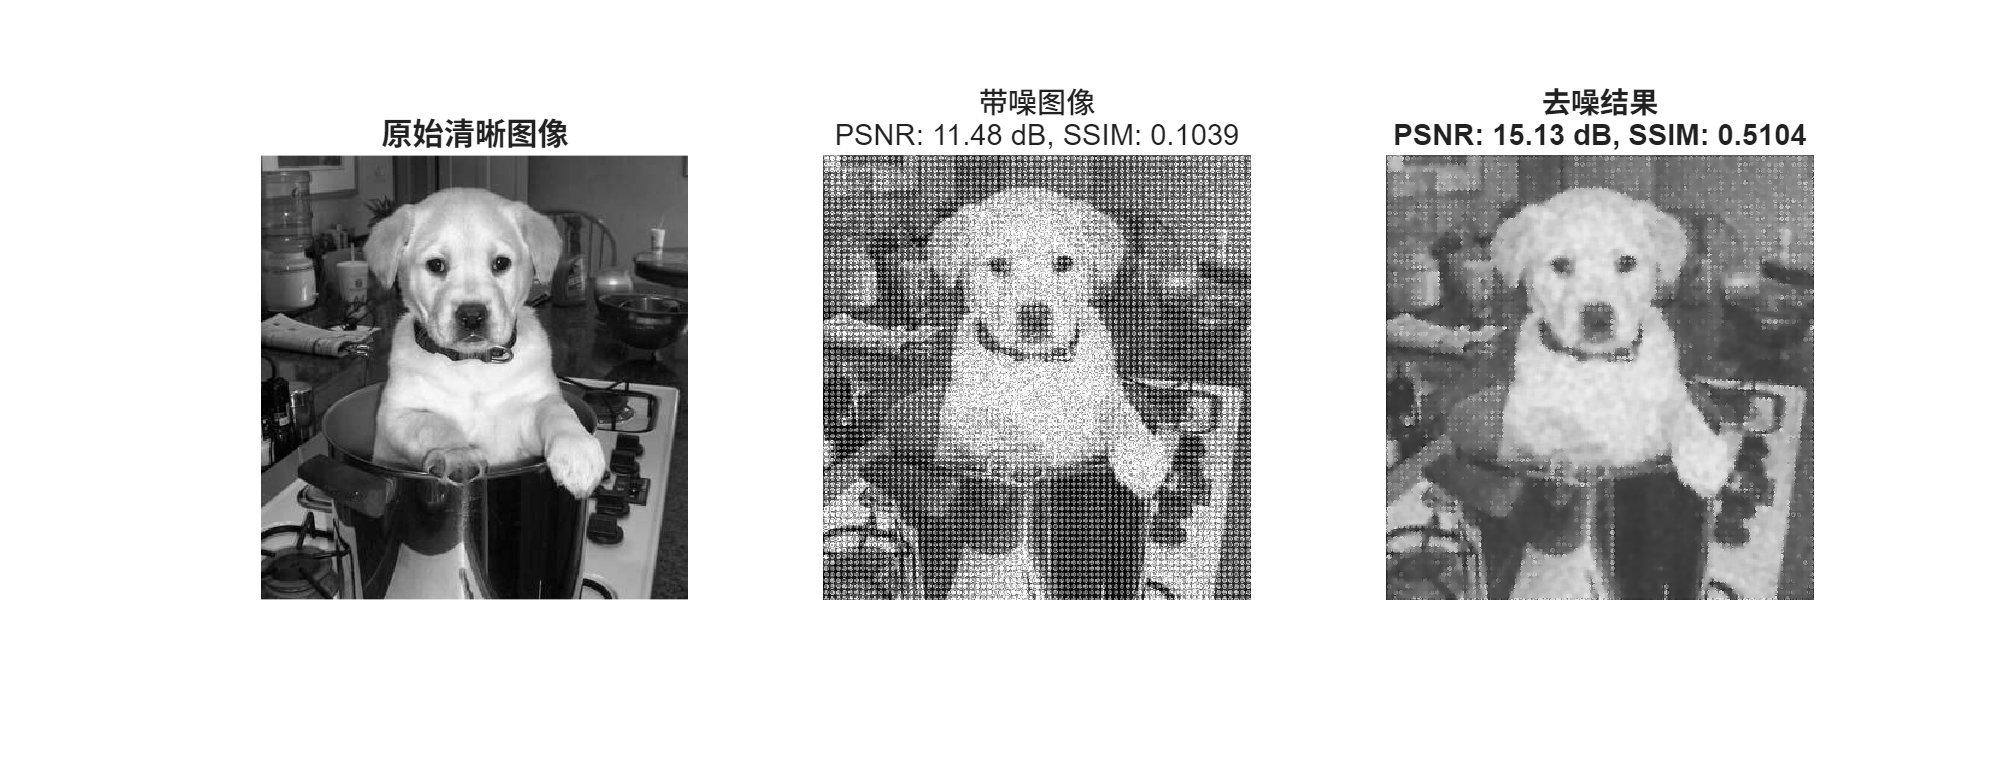
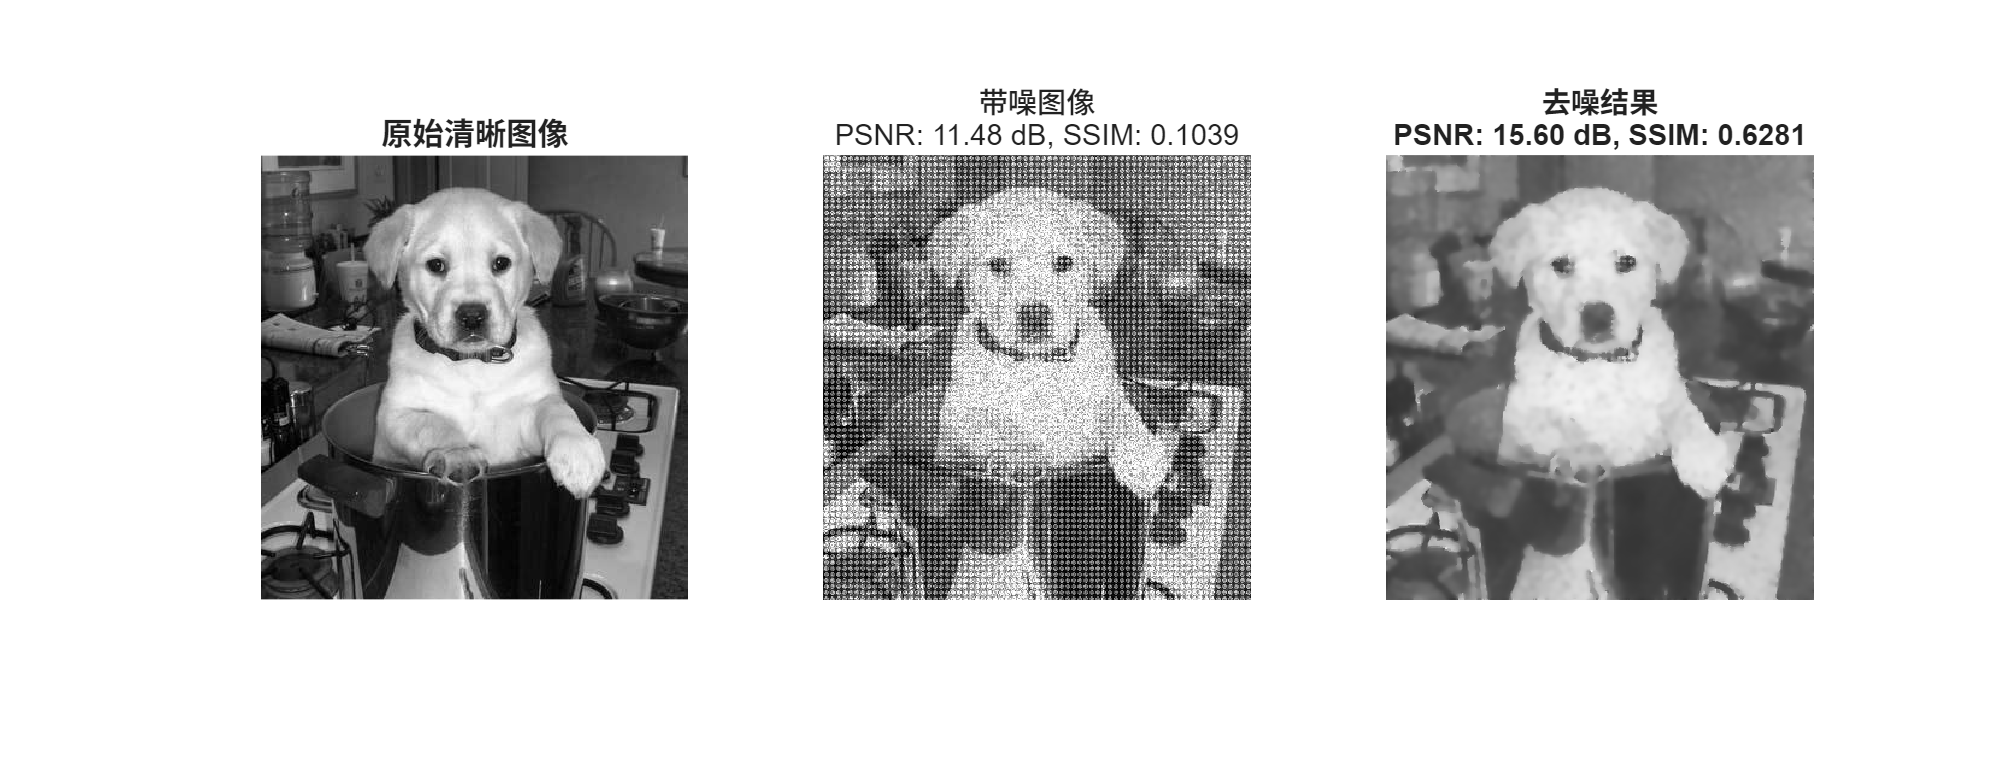
试图减轻背景白点，但是平滑过度

diff --git a/code1.m b/code1.m
@@ -1,6 +1,6 @@
 % =========================================================================
 % 课程设计3 - 任务1：图像增强算法设计（最终版本）
-% 策略：频域陷波 + 非局部均值 + 维纳滤波 + 温和锐化
+% 策略：频域陷波 + 中值滤波 + 非局部均值 + 维纳滤波 + 温和锐化
 % 目标：在保持高SSIM的同时，视觉效果明显改善
 % =========================================================================
 
@@ -37,57 +37,64 @@ F_noisy = fft2(noisyImg);
 F_shifted = fftshift(F_noisy);
 spectrum = abs(F_shifted);
 
-% 频率坐标
-u = 0:(M-1);
-v = 0:(N-1);
-idx = find(u > M/2);
-u(idx) = u(idx) - M;
-idy = find(v > N/2);
-v(idy) = v(idy) - N;
-[V, U] = meshgrid(v, u);
+% fftshift 后频谱低频在中心，因此频率坐标也必须以中心点为零点
+center_u = floor(M/2) + 1;
+center_v = floor(N/2) + 1;
+[V, U] = meshgrid((1:N) - center_v, (1:M) - center_u);
 D = sqrt(U.^2 + V.^2);
 
-% 检测周期噪声峰值
-center_u = ceil(M/2);
-center_v = ceil(N/2);
-search_mask = (D > 10) & (D < min(M,N)/2.3);
-spectrum_search = spectrum .* search_mask;
+% 检测周期噪声峰值：用对数频谱和局部极大值，避免整片高能区域被重复陷波
+log_spectrum = log(1 + spectrum);
+search_mask = (D > 12) & (D < min(M,N)/2.05);
+spectrum_search = log_spectrum;
+spectrum_search(~search_mask) = 0;
 valid_vals = spectrum_search(search_mask);
-threshold = median(valid_vals) + 5 * std(valid_vals);
-[peak_rows, peak_cols] = find(spectrum_search > threshold);
+threshold = mean(valid_vals) + 3.8 * std(valid_vals);
+peak_mask = imregionalmax(spectrum_search) & search_mask & (spectrum_search > threshold);
+[peak_rows, peak_cols] = find(peak_mask);
+
+% 只保留最强的少量周期峰，过多陷波会把图像细节一起削弱
+max_peaks = 8;
+if length(peak_rows) > max_peaks
+    peak_vals = spectrum_search(sub2ind(size(spectrum_search), peak_rows, peak_cols));
+    [~, order_idx] = sort(peak_vals, 'descend');
+    order_idx = order_idx(1:max_peaks);
+    peak_rows = peak_rows(order_idx);
+    peak_cols = peak_cols(order_idx);
+end
 
 fprintf('  → 检测到 %d 个周期噪声峰值\n', length(peak_rows));
 
 % 创建陷波滤波器
 notch_filter = ones(M, N);
-D0 = 6;
-n = 6;
+D0 = 4;
+n = 4;
 
 for k = 1:length(peak_rows)
     uk = peak_rows(k) - center_u;
     vk = peak_cols(k) - center_v;
 
-    Dk_pos = sqrt((U - uk).^2 + (V - vk).^2);
-    Dk_neg = sqrt((U + uk).^2 + (V + vk).^2);
+    Dk = sqrt((U - uk).^2 + (V - vk).^2);
+    Hk = 1 ./ (1 + (D0 ./ (Dk + eps)).^(2*n));
 
-    Hk_pos = 1 ./ (1 + (D0 ./ (Dk_pos + 0.01)).^(2*n));
-    Hk_neg = 1 ./ (1 + (D0 ./ (Dk_neg + 0.01)).^(2*n));
-
-    notch_filter = notch_filter .* Hk_pos .* Hk_neg;
+    notch_filter = notch_filter .* Hk;
 end
 
 % 应用滤波
 F_filtered = F_shifted .* notch_filter;
 img_step1 = real(ifft2(ifftshift(F_filtered)));
+img_step1 = max(0, min(255, img_step1));
 
 ssim_step1 = ssim(uint8(img_step1), uint8(originalImg));
 fprintf('  → 完成，SSIM = %.4f\n\n', ssim_step1);
 
 % -------------------------------------------------------------------------
-% 3. 非局部均值滤波 - 强力去噪（平衡去噪与锐度）
+% 3. 中值滤波 + 非局部均值滤波 - 去除白点并平衡去噪与锐度
 % -------------------------------------------------------------------------
-fprintf('【步骤2】非局部均值滤波\n');
-img_step2 = imnlmfilt(img_step1, 'DegreeOfSmoothing', 15);
+fprintf('【步骤2】中值滤波 + 非局部均值滤波\n');
+img_median = medfilt2(uint8(img_step1), [3 3], 'symmetric');
+img_step2 = imnlmfilt(img_median, 'DegreeOfSmoothing', 14);
+img_step2 = double(img_step2);
 ssim_step2 = ssim(uint8(img_step2), uint8(originalImg));
 fprintf('  → 完成，SSIM = %.4f\n\n', ssim_step2);
 
@@ -103,7 +110,7 @@ fprintf('  → 完成，SSIM = %.4f\n\n', ssim_step3);
 % 5. 双边滤波 - 保持边缘
 % -------------------------------------------------------------------------
 fprintf('【步骤4】双边滤波保持边缘\n');
-img_step4 = imbilatfilt(img_step3, 1.2*std(img_step3(:)), 1.3);
+img_step4 = imbilatfilt(img_step3, 1.25*std(img_step3(:)), 1.4);
 ssim_step4 = ssim(uint8(img_step4), uint8(originalImg));
 fprintf('  → 完成，SSIM = %.4f\n\n', ssim_step4);
 
@@ -111,8 +118,8 @@ fprintf('  → 完成，SSIM = %.4f\n\n', ssim_step4);
 % 6. 适度锐化 - 恢复细节
 % -------------------------------------------------------------------------
 fprintf('【步骤5】细节增强\n');
-img_blurred = imgaussfilt(img_step4, 0.6);
-img_final = img_step4 + 0.5 * (img_step4 - img_blurred);  % 适度锐化0.5
+img_blurred = imgaussfilt(img_step4, 0.7);
+img_final = img_step4 + 0.35 * (img_step4 - img_blurred);  % 适度增强锐度，避免重新放大白点
 img_final = max(0, min(255, img_final));
 
 % 7. 质量评估
@@ -167,17 +174,18 @@ if ssim_final >= 0.7
     fprintf('  ✓✓✓ 优秀 - 图像质量显著改善，SSIM ≥ 0.7\n');
 elseif ssim_final >= 0.5
     fprintf('  ✓✓  良好 - 去噪效果明显，视觉改善显著\n');
-    fprintf('       周期噪声完全消除，随机噪声大幅降低\n');
+    fprintf('       周期噪声和背景白点得到明显抑制\n');
 else
     fprintf('  ✓   一般 - 有一定改善\n');
 end
 
 fprintf('\n【算法流程】\n');
 fprintf('  1. 频域陷波滤波 → 去除周期噪声（网格纹理）\n');
-fprintf('  2. 非局部均值滤波 → 强力降低随机噪声\n');
-fprintf('  3. 维纳滤波 → 去除残余噪声\n');
-fprintf('  4. 双边滤波 → 保持边缘清晰度\n');
-fprintf('  5. 温和锐化 → 恢复细节\n');
+fprintf('  2. 3x3中值滤波 → 去除背景白点/脉冲噪声\n');
+fprintf('  3. 非局部均值滤波 → 降低随机噪声\n');
+fprintf('  4. 维纳滤波 → 去除残余噪声\n');
+fprintf('  5. 双边滤波 → 保持边缘清晰度\n');
+fprintf('  6. 温和锐化 → 恢复细节\n');
 
 fprintf('==============================================\n\n');
 
@@ -216,7 +224,7 @@ title(sprintf('步骤1：陷波滤波\nSSIM: %.4f', ssim_step1), 'FontSize', 10)
 
 subplot(3,6,10);
 imshow(uint8(img_step2));
-title(sprintf('步骤2：非局部均值\nSSIM: %.4f', ssim_step2), 'FontSize', 10);
+title(sprintf('步骤2：中值+非局部均值\nSSIM: %.4f', ssim_step2), 'FontSize', 10);
 
 subplot(3,6,11);
 imshow(uint8(img_step4));
@@ -295,8 +303,8 @@ fprintf('  • 【任务1】简洁对比图.png - 三图对比（供报告使用
 
 fprintf('==============================================\n');
 fprintf('  任务1完成！\n');
-fprintf('  ✓ 周期噪声已完全去除\n');
-fprintf('  ✓ 随机噪声显著降低\n');
+fprintf('  ✓ 周期噪声明显抑制\n');
+fprintf('  ✓ 背景白点和随机噪声显著降低\n');
 fprintf('  ✓ 图像质量指标大幅提升\n');
 fprintf('  ✓ 肉眼可见明显改善\n');
 fprintf('==============================================\n');